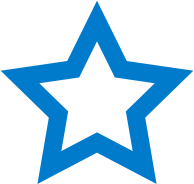
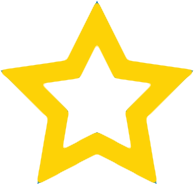
Style and image updates

diff --git a/css/site.css b/css/site.css
@@ -90,10 +90,10 @@ small { font-size: 70%; }
 .accordion-toggle.expand:after { content: "\25BC"; }
 
 .big-star:after {
-  background-color: #e9ecef;
+  background-color: white;
   border: 2px solid #343a40;
   border-radius: 8px;
-  color: #007bff;
+  color: #f4d246;
   font-size: 5em;
   padding: 15px 30px;
   content: "\2606";
@@ -104,8 +104,8 @@ small { font-size: 70%; }
 .list-group { width: 100%; }
 
 .list-group-item {
-  padding-bottom: 15px;
-  padding-top: 15px;
+  padding-bottom: 7px;
+  padding-top: 7px;
 }
 
 .list-group-item a {
@@ -122,6 +122,7 @@ small { font-size: 70%; }
   background-size: contain;
   position: relative;
   left: -12px;
+  top: 8px;
   padding: 9px;
 }
 .star.empty { background-image: url("../images/active_empty_star.png"); }
